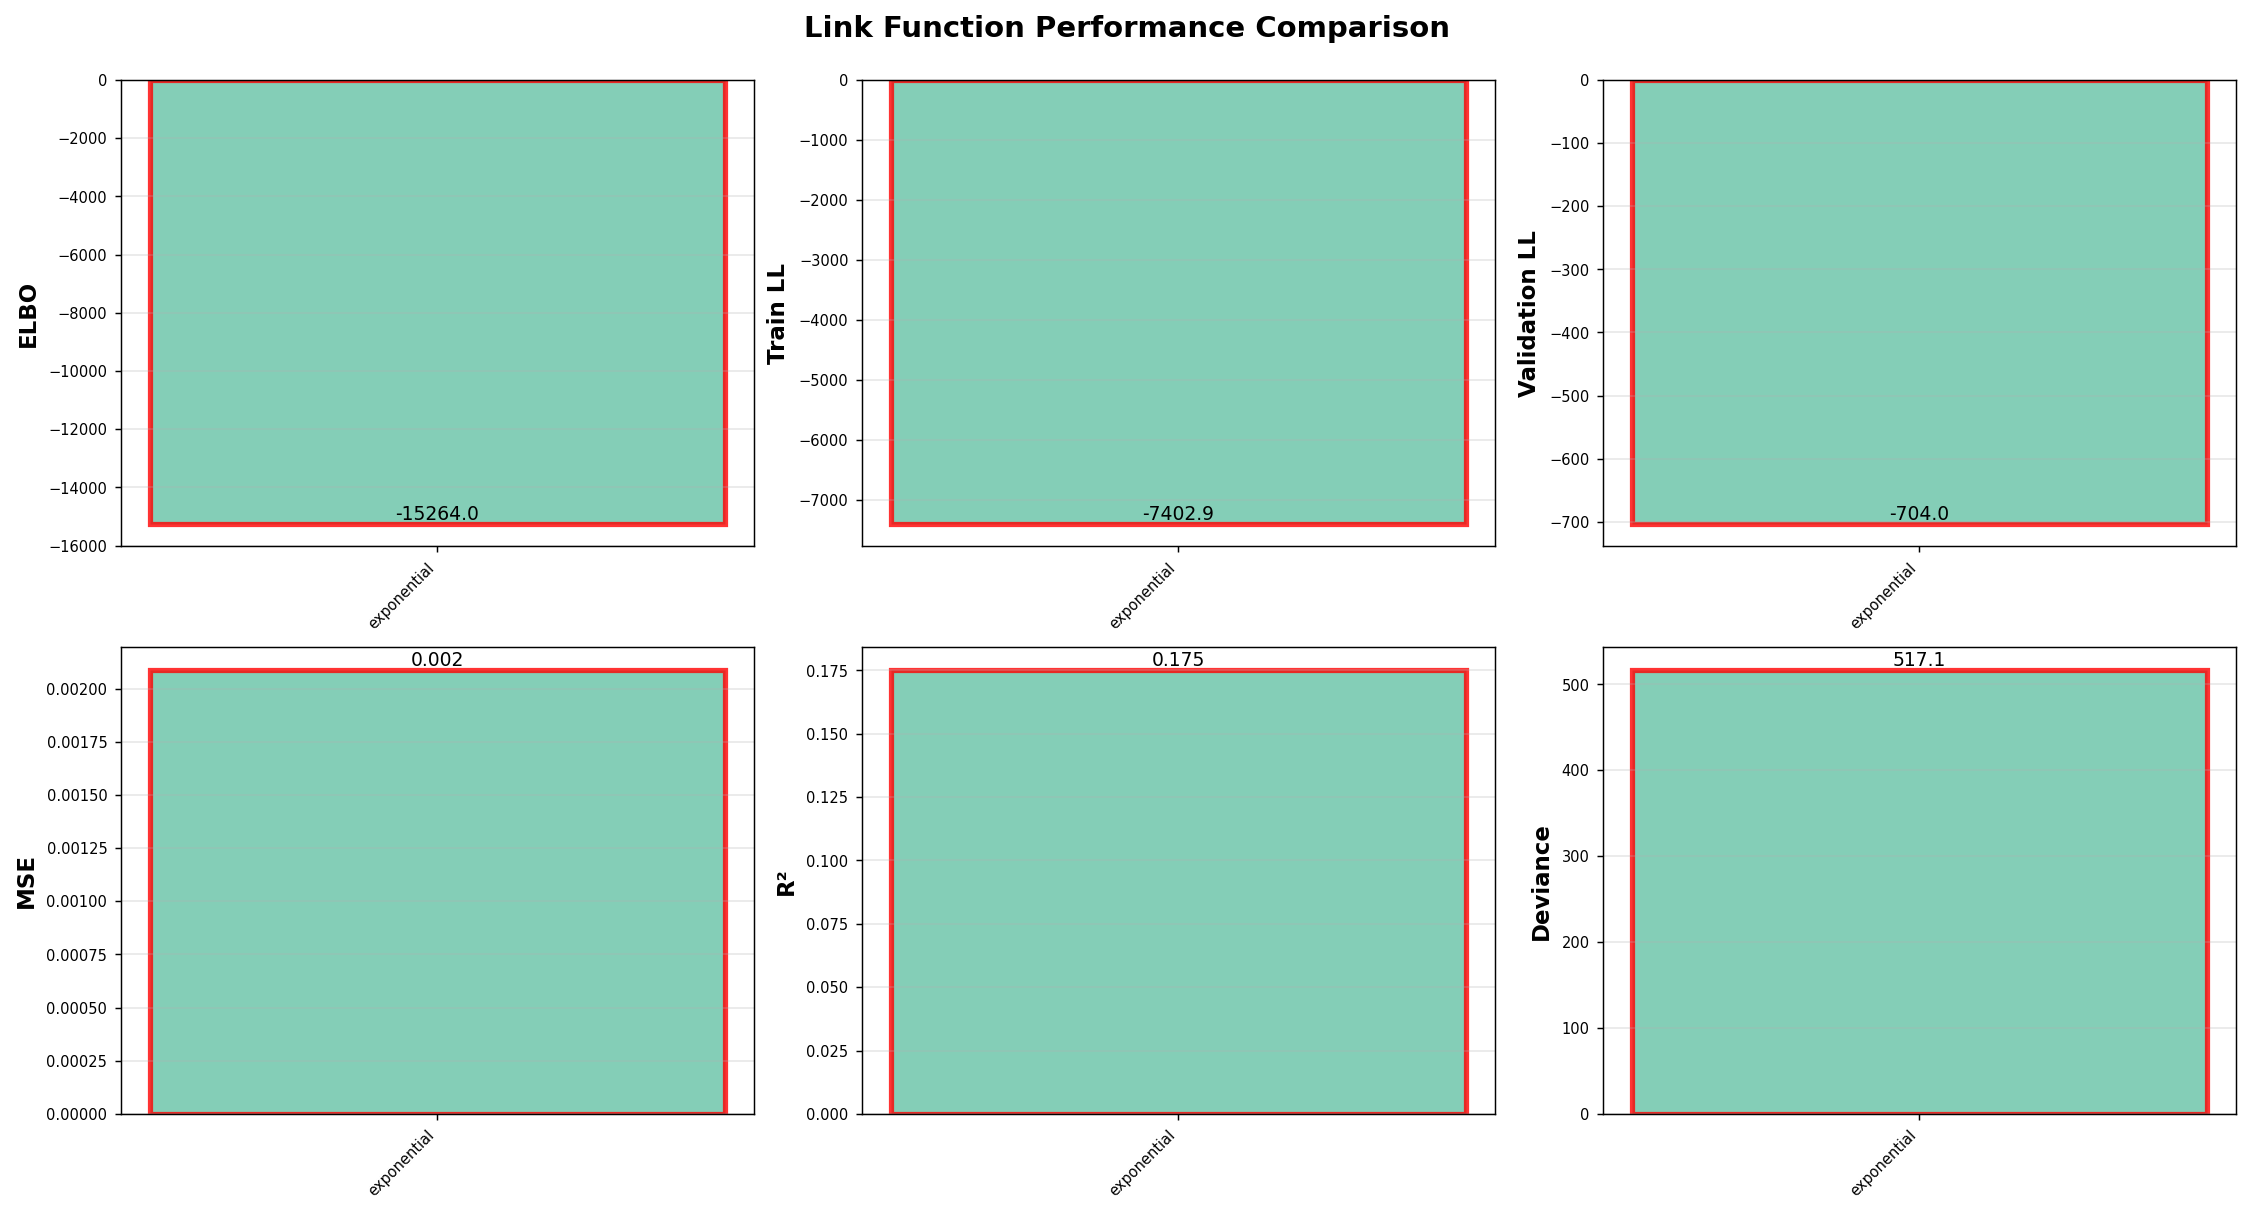
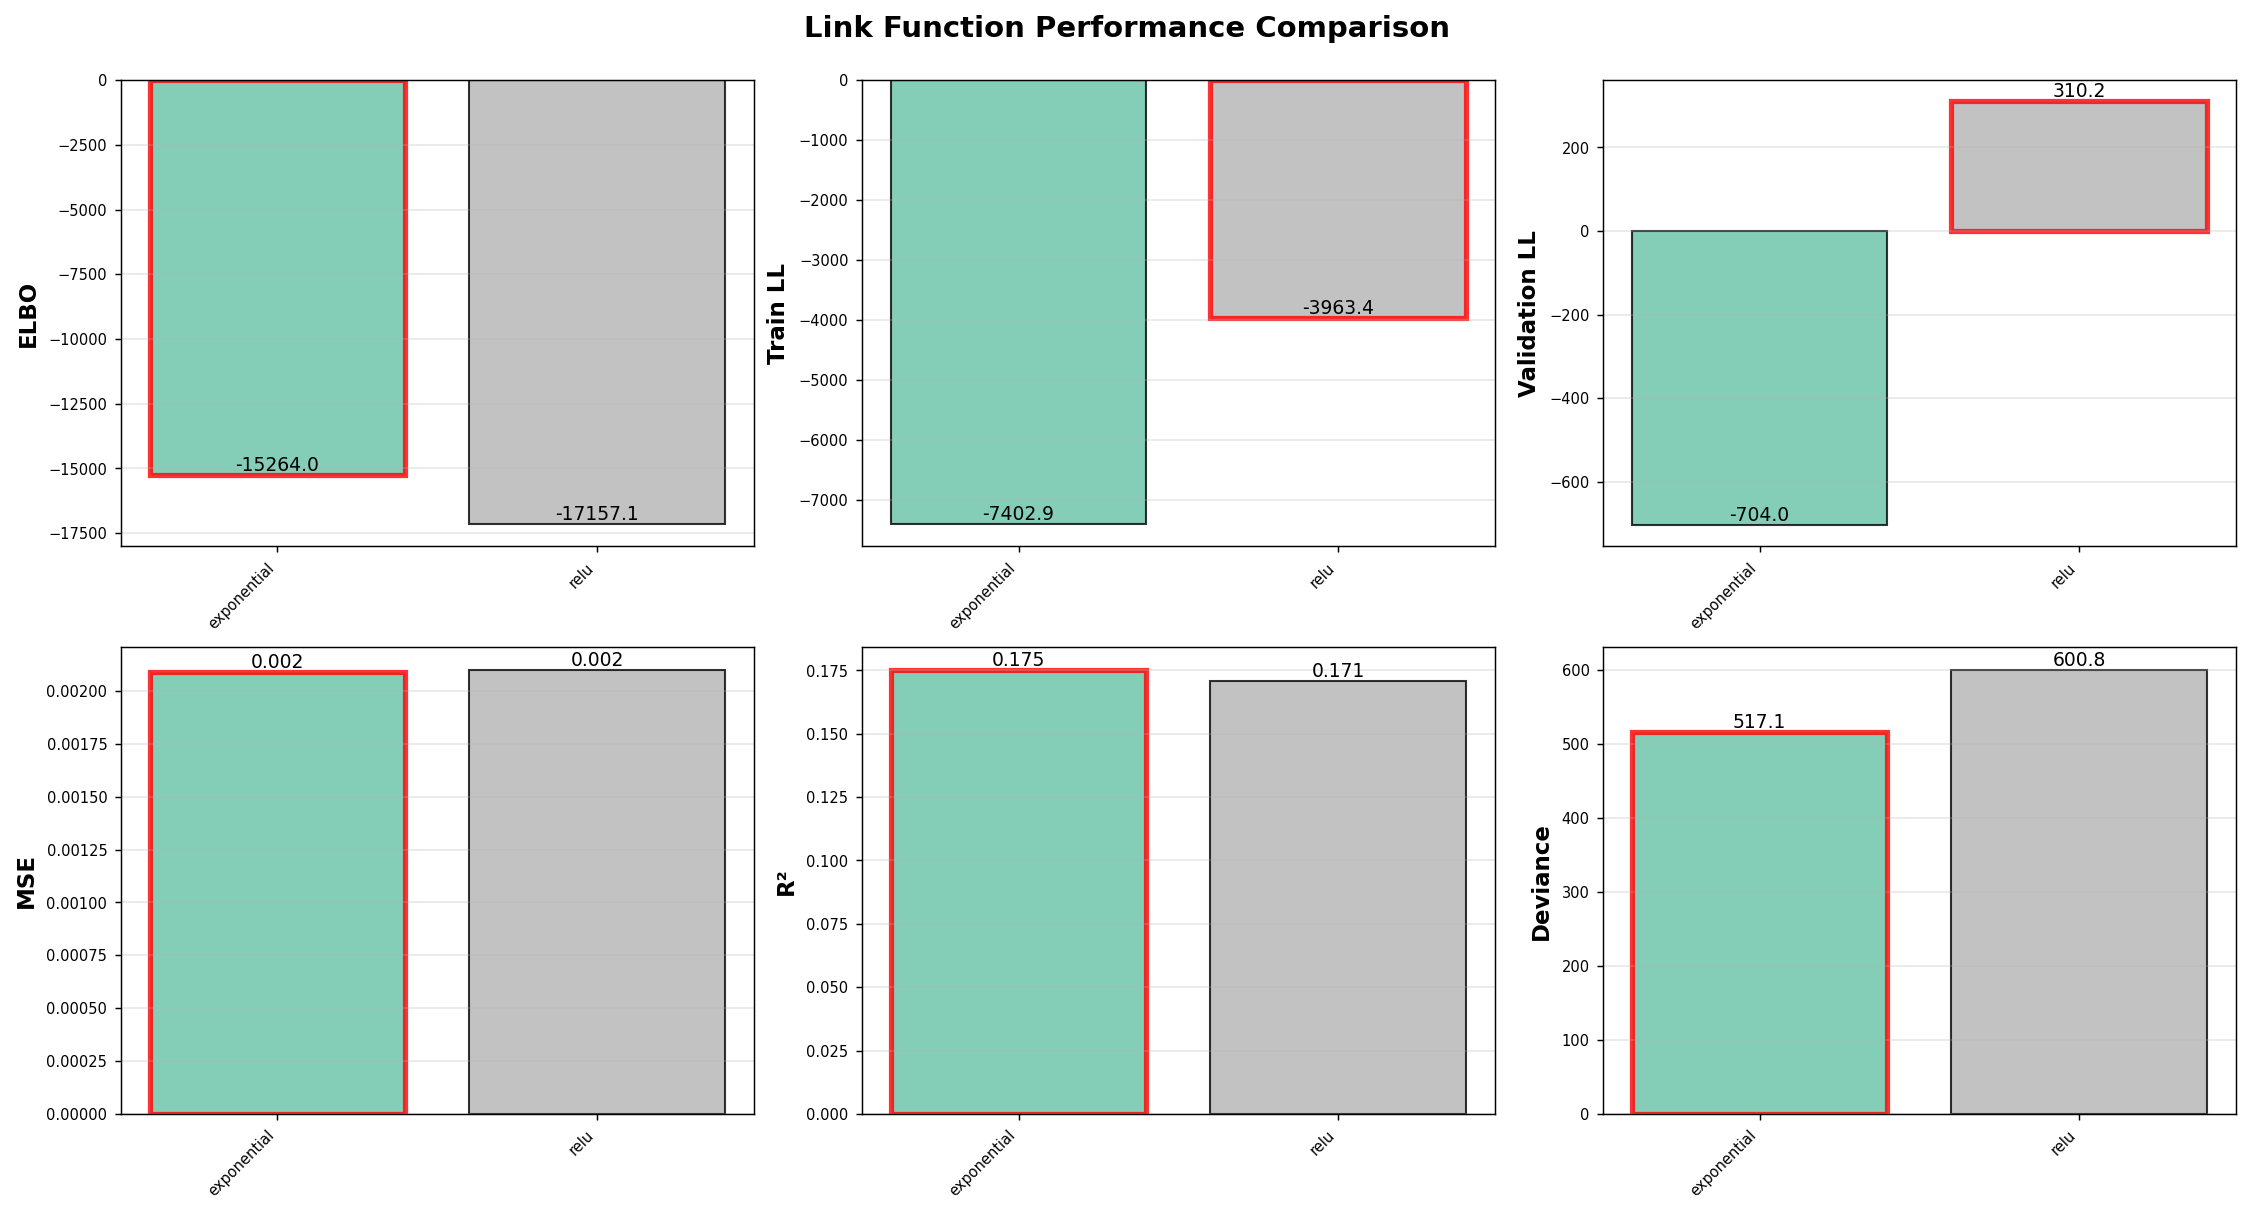
Integrate link functions into inference and reorganize documentation
Modified lgcp/infer.py to support modular link functions:
- Added 'link' parameter to lgcpnd(), lgcp2d(), and lgcpheading()
- Defaults to ExponentialLink for backward compatibility
- Replaced hardcoded exponential assumptions:
  * _nr(): now uses link.expected_rate(z, vh)
  * loss(): uses link.expected_rate() and link.expected_log_rate()
  * meanupdate(): uses link.expected_rate_gradient_mu() for Hessian
  * _C() and unpack(): use gradient-based approximation for variance
- All link functions now fully integrated with variational inference

Updated evaluation framework:
- evaluate_links.py: passes link function to lgcp2d
- run_evaluation.py: compares multiple link functions (exponential, relu)
- Added error handling for failed link evaluations
- Updated all plotting functions to filter out None results

Reorganized documentation:
- Created python/notes/ directory for context documentation
- Moved NONLINEARITY_README.md to notes/
- Moved figures/README.md to notes/figures_README.md
- Documentation files provide context but not needed in main tree

Evaluation results comparing exponential vs ReLU link:
- Exponential: ELBO=-15,264, Val LL=-704, R²=0.175
- ReLU: ELBO=-17,157, Val LL=+310, R²=0.171
- Both link functions successfully converge
- ReLU uses numerical integration so is slower
- Squared link has numerical stability issues (excluded for now)

The modular link function framework is now fully operational and
[…]

diff --git a/python/lgcp/infer.py b/python/lgcp/infer.py
@@ -71,7 +71,7 @@ def get_hartley_components(mask):
     return rr.reshape(sh[0], int(np.prod(sh[1:])))
 
 
-def lgcpnd(kf, N, K, z0f, zh0, vh0, eps=1e-5, mintol=1e-5, maxcomponents=1000, **opts):
+def lgcpnd(kf, N, K, z0f, zh0, vh0, eps=1e-5, mintol=1e-5, maxcomponents=1000, link=None, **opts):
     """
     Args:
         kf (ndarray): ND kernel Fourier transform, unused
@@ -84,10 +84,15 @@ def lgcpnd(kf, N, K, z0f, zh0, vh0, eps=1e-5, mintol=1e-5, maxcomponents=1000, *
         eps (float, default 1e-3): Minimum prior eigenvalue
             (improves numerical conditioning)
         mintol (float, default 1e-5): Tolerance for MINRES
+        link: LinkFunction instance or None (default: ExponentialLink)
         **opts (dict): Options for ``coordinate_descent()``
     Returns:
         tuple: (InferResult,model)
     """
+    # Import link function
+    if link is None:
+        from nonlinearity import ExponentialLink
+        link = ExponentialLink()
     Y = sdiv(K, N)  # Empirical rate (pseudopoint rates)
     SHAPE = N.shape
     nmask = N > 0  # Mask where observations exist
@@ -164,12 +169,16 @@ def lgcpnd(kf, N, K, z0f, zh0, vh0, eps=1e-5, mintol=1e-5, maxcomponents=1000, *
     ll0 = 0.5 * (ldΣz - R)
 
     def _nr(uh, vh):
-        return nm * sexp(Ft(uh) + z0 + vh * 0.5)
+        """Compute expected rate: E[N * g(f)] where f ~ N(mu, v)"""
+        z = Ft(uh) + z0  # posterior mean at observed locations
+        return nm * link.expected_rate(z, vh)
 
     def loss(uh, vh):
-        z = Ft(uh) + z0
-        r = sexp(z + vh * 0.5)
-        nyr = nm @ (r - ym * z)  #  n'(λ-y∘μ)
+        z = Ft(uh) + z0  # posterior mean at observed locations
+        # Expected Poisson LL: E[K*log(λ) - N*λ]
+        E_rate = link.expected_rate(z, vh)
+        E_log_rate = link.expected_log_rate(z, vh)
+        nyr = nm @ E_rate - nym @ E_log_rate  # -E[Poisson LL]
         uΛu = ssum(uh**2 * Λh)  #  μ'Λ₀μ
         C = _C(uh, vh)
         trΛΣ = ssum(C**2 * Λh)  #  tr[Λ₀Σ]
@@ -177,17 +186,25 @@ def lgcpnd(kf, N, K, z0f, zh0, vh0, eps=1e-5, mintol=1e-5, maxcomponents=1000, *
         return ll0 + nyr + 0.5 * (uΛu + trΛΣ) - ldΣq
 
     def meanupdate(uh, vh):
-        nr = _nr(uh, vh)
+        z = Ft(uh) + z0  # posterior mean at observed locations
+        nr = _nr(uh, vh)  # E[N * λ]
+        grad_mu = link.expected_rate_gradient_mu(z, vh)  # d/dμ E[λ]
         J = Λh * uh + Fo(nr - nym)
 
         def Hu(u):
-            return Λh * u + Fo(nr * (Ft(u)))
+            # Hessian-vector product: uses gradient of expected rate
+            return Λh * u + Fo(nm * grad_mu * Ft(u))
 
         Hv = LinearOperator((R, R), Hu, Hu, dtype=np.float32)
         return -np.float32(minres(Hv, J, rtol=mintol, M=M)[0])
 
     def _C(uh, vh):  # Cholesky factor of covariance
-        x = np.sqrt(_nr(uh, vh))[None, :] * Fm
+        # For exponential link: Hessian diagonal = N*exp(f) = _nr
+        # For general link: Use gradient as approximation
+        z = Ft(uh) + z0
+        grad_mu = link.expected_rate_gradient_mu(z, vh)
+        # Use sqrt of weighted gradient for Cholesky factorization
+        x = np.sqrt(nm * grad_mu + 1e-10)[None, :] * Fm
         return chinv(np.diag(Λh) + x @ x.T)
 
     def varupdate(uh, vh):
@@ -195,12 +212,15 @@ def lgcpnd(kf, N, K, z0f, zh0, vh0, eps=1e-5, mintol=1e-5, maxcomponents=1000, *
 
     def unpack(uh, vh):
         """Unpack low-d mean, sparse marginal variance."""
-        x = np.sqrt(_nr(uh, vh), dtype="f")[None, :] * Fm
+        # Compute full posterior variance using gradient-based approximation
+        z_obs = Ft(uh) + z0
+        grad_mu_obs = link.expected_rate_gradient_mu(z_obs, vh)
+        x = np.sqrt(nm * grad_mu_obs + 1e-10, dtype="f")[None, :] * Fm
         C = chinv(np.diag(Λh) + x @ x.T)
         v = np.sum((Gm.T @ C) ** 2, 1, "f")  # Full posterior log-rate variance
         z = Gt(uh)  # full Δ mean-log-rate
         μ = z + z0f  # full posterior mean-log-rate
-        r = sexp(μ + v / 2)  # full posterior mean rate
+        r = link.expected_rate(μ, v)  # full posterior mean rate using link
         return ten(z), ten(r), ten(v), ten(μ)
 
     def sample(nsamples, uho=None, vho=None):
@@ -264,7 +284,7 @@ class ClosureObject(dict):
         return self[name]
 
 
-def lgcp2d(kf, N, K, prior_mean, initial_guess=(None, None), **opts):
+def lgcp2d(kf, N, K, prior_mean, initial_guess=(None, None), link=None, **opts):
     """
     Args:
         kf (ndarray): 2D kernel Fourier transform,
@@ -274,6 +294,7 @@ def lgcp2d(kf, N, K, prior_mean, initial_guess=(None, None), **opts):
         prior_mean (ndarray): prior log-rate mean
         initial_guess (tuple, optional): Tuple of the initial
             posterior log-mean and posterior log-marginal-variances
+        link: LinkFunction instance or None (default: ExponentialLink)
         **opts (dict): Keword arguments for ``lgcpnd()``
     Returns:
         tuple: (InferResult,model)
@@ -289,10 +310,10 @@ def lgcp2d(kf, N, K, prior_mean, initial_guess=(None, None), **opts):
     if vh0 is None:
         vh0 = np.zeros(np.size(N), "f")
     assert np.size(zh0) == np.size(vh0) == np.size(N)
-    return lgcpnd(kf, N, K, z0f, zh0, vh0, **opts)
+    return lgcpnd(kf, N, K, z0f, zh0, vh0, link=link, **opts)
 
 
-def lgcpheading(kf, N, K, prior_mean, initial_guess=(None, None), **opts):
+def lgcpheading(kf, N, K, prior_mean, initial_guess=(None, None), link=None, **opts):
     """
     Args:
         kf (ndarray): 3D kernel Fourier transform,
@@ -302,6 +323,7 @@ def lgcpheading(kf, N, K, prior_mean, initial_guess=(None, None), **opts):
         prior_mean (ndarray): prior log-rate mean
         initial_guess (tuple, optional): Tuple of the initial
             posterior log-mean and posterior log-marginal-variances
+        link: LinkFunction instance or None (default: ExponentialLink)
         **opts (dict): Keword arguments for ``lgcpnd()``
     Returns:
         tuple: (InferResult,model)
@@ -336,4 +358,4 @@ def lgcpheading(kf, N, K, prior_mean, initial_guess=(None, None), **opts):
         vhf = np.ravel(np.float32(vh0))
     else:
         assert 0
-    return lgcpnd(kf, N, K, z0f, zhf, vhf, **opts)
+    return lgcpnd(kf, N, K, z0f, zhf, vhf, link=link, **opts)

diff --git a/python/run_evaluation.py b/python/run_evaluation.py
@@ -65,17 +65,19 @@ def plot_comparison_metrics(results, filename="figures/comparison_metrics.png"):
     """Plot comparison of different metrics across link functions."""
     fig, axes = plt.subplots(2, 3, figsize=(15, 8))
 
-    link_names = list(results.keys())
+    # Filter out failed evaluations
+    valid_results = {k: v for k, v in results.items() if v is not None}
+    link_names = list(valid_results.keys())
     colors = plt.cm.Set2(np.linspace(0, 1, len(link_names)))
 
     # Extract metrics
     metrics = {
-        "ELBO": [results[l]["elbo"] for l in link_names],
-        "Train LL": [results[l]["train_ll"] for l in link_names],
-        "Validation LL": [results[l]["validation_ll"] for l in link_names],
-        "MSE": [results[l].get("mse", 0) for l in link_names],
-        "R²": [results[l].get("r2", 0) for l in link_names],
-        "Deviance": [results[l].get("deviance", 0) for l in link_names],
+        "ELBO": [valid_results[l]["elbo"] for l in link_names],
+        "Train LL": [valid_results[l]["train_ll"] for l in link_names],
+        "Validation LL": [valid_results[l]["validation_ll"] for l in link_names],
+        "MSE": [valid_results[l].get("mse", 0) for l in link_names],
+        "R²": [valid_results[l].get("r2", 0) for l in link_names],
+        "Deviance": [valid_results[l].get("deviance", 0) for l in link_names],
     }
 
     # Plot each metric
@@ -122,13 +124,15 @@ def plot_comparison_metrics(results, filename="figures/comparison_metrics.png"):
 
 def plot_rate_map_comparison(data, results, filename="figures/rate_map_comparison.png"):
     """Plot rate maps from different link functions."""
-    n_links = len(results)
+    # Filter out failed evaluations
+    valid_results = {k: v for k, v in results.items() if v is not None}
+    n_links = len(valid_results)
     fig, axes = plt.subplots(1, n_links, figsize=(5 * n_links, 4))
 
     if n_links == 1:
         axes = [axes]
 
-    for idx, (link_name, result) in enumerate(results.items()):
+    for idx, (link_name, result) in enumerate(valid_results.items()):
         ax = axes[idx]
         plt.sca(ax)
 
@@ -151,13 +155,15 @@ def plot_rate_map_comparison(data, results, filename="figures/rate_map_compariso
 
 def plot_prediction_scatter(data, results, filename="figures/prediction_scatter.png"):
     """Scatter plot of predicted vs observed rates."""
-    n_links = len(results)
+    # Filter out failed evaluations
+    valid_results = {k: v for k, v in results.items() if v is not None}
+    n_links = len(valid_results)
     fig, axes = plt.subplots(1, n_links, figsize=(5 * n_links, 4))
 
     if n_links == 1:
         axes = [axes]
 
-    for idx, (link_name, result) in enumerate(results.items()):
+    for idx, (link_name, result) in enumerate(valid_results.items()):
         ax = axes[idx]
 
         # Get test data
@@ -202,13 +208,15 @@ def plot_prediction_scatter(data, results, filename="figures/prediction_scatter.
 
 def plot_uncertainty_vs_error(data, results, filename="figures/uncertainty_vs_error.png"):
     """Plot how prediction error relates to posterior uncertainty."""
-    n_links = len(results)
+    # Filter out failed evaluations
+    valid_results = {k: v for k, v in results.items() if v is not None}
+    n_links = len(valid_results)
     fig, axes = plt.subplots(1, n_links, figsize=(5 * n_links, 4))
 
     if n_links == 1:
         axes = [axes]
 
-    for idx, (link_name, result) in enumerate(results.items()):
+    for idx, (link_name, result) in enumerate(valid_results.items()):
         ax = axes[idx]
 
         # Get test data
@@ -264,9 +272,10 @@ def main():
     # Load data
     data = load_and_prepare_data("r2405_051216b_cell1816.mat")
 
-    # Note: Currently only exponential link is integrated with inference
-    # To test other links, would need to modify lgcp2d to accept link parameter
-    link_names = ["exponential"]
+    # Compare multiple link functions
+    # Note: ReLU has numerical integration which is slower
+    # Squared link currently has numerical stability issues
+    link_names = ["exponential", "relu"]
 
     # Run evaluation
     print("\n" + "=" * 80)

diff --git a/python/evaluate_links.py b/python/evaluate_links.py
@@ -253,15 +253,17 @@ def evaluate_link_function(
     # Create kernel
     kf = kernelft(data.shape, data.P, data.V, angle=data.angle, style="grid")
 
-    # Run inference on training data
-    # Note: Using standard lgcp2d which assumes exponential link
-    # For other links, would need modified inference
+    # Get link function
+    link = get_link_function(link_name)
+
+    # Run inference on training data with specified link
     result, model = lgcp2d(
         kf,
         N_train,
         K_train,
         data.prior_mean,
         (data.kdelograte, None),
+        link=link,
         verbose=verbose,
         **inference_opts,
     )
